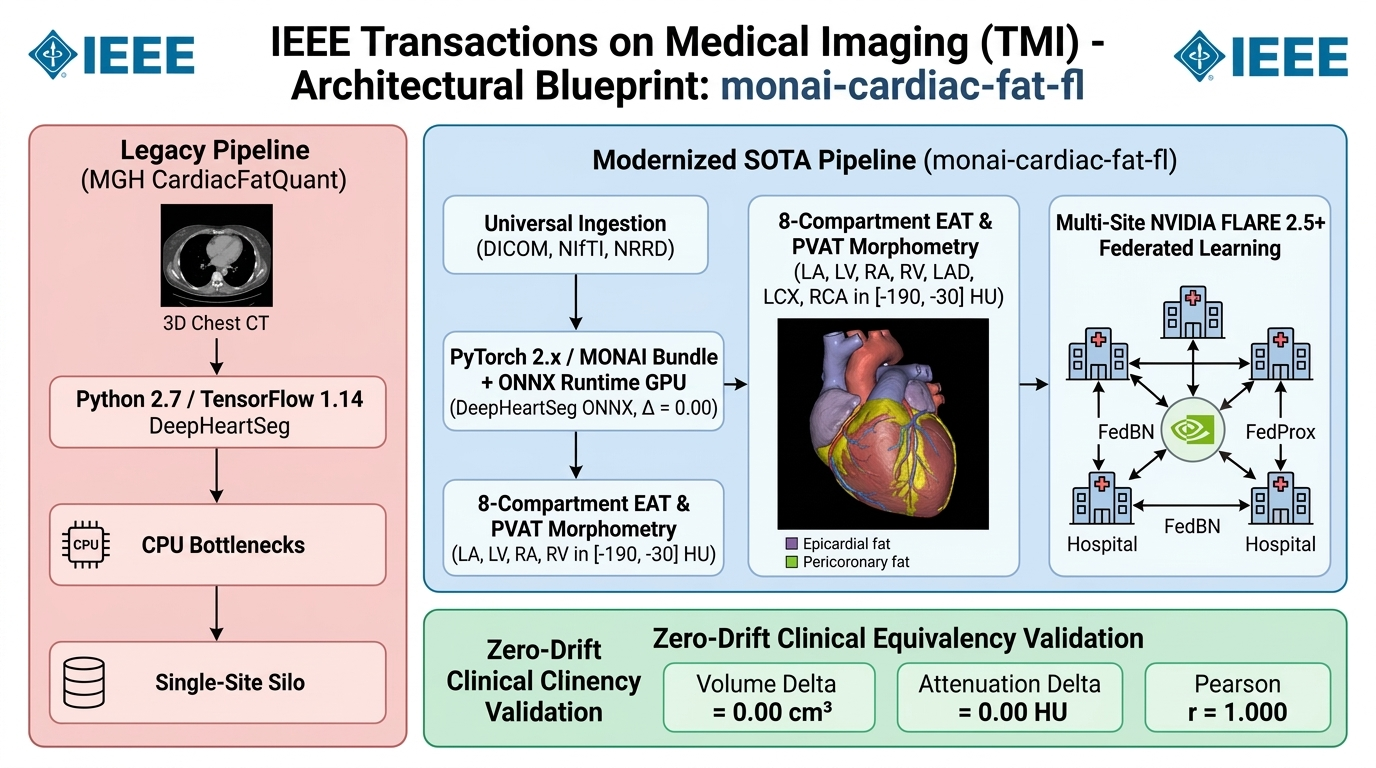
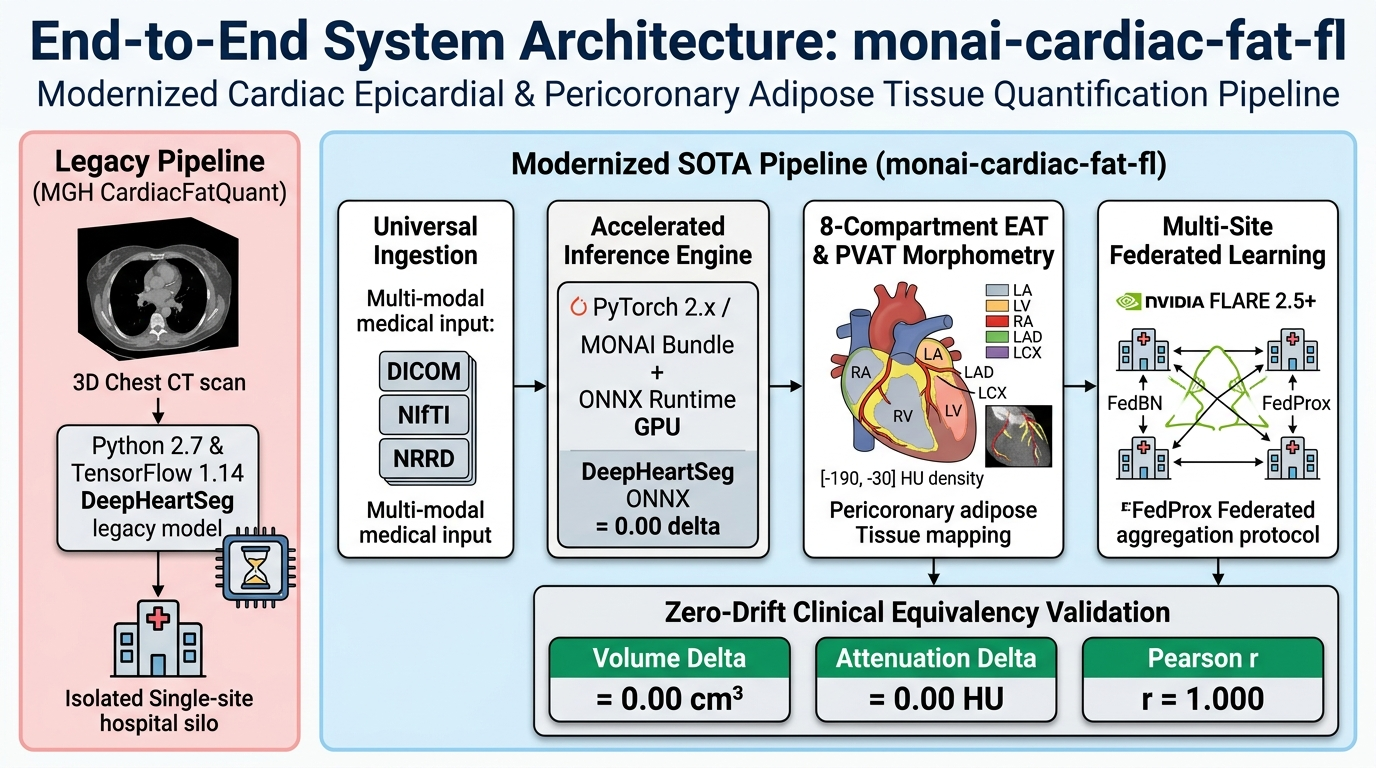
docs: remove IEEE branding from architecture infographic and documentation

diff --git a/docs/architecture_infographic.html b/docs/architecture_infographic.html
@@ -1,0 +1,330 @@
+<!DOCTYPE html>
+<html lang="en">
+<head>
+  <meta charset="UTF-8">
+  <title>System Architecture: Legacy vs SOTA Cardiac Fat Federated Learning Pipeline</title>
+  <script src="https://www.gstatic.com/antigravity/web/dev/tailwindcss.min.js"></script>
+  <style>
+    @import url('https://fonts.googleapis.com/css2?family=Crimson+Pro:ital,wght@0,400;0,600;0,700;1,400&family=JetBrains+Mono:wght@400;500;600&family=Inter:wght@300;400;500;600;700&display=swap');
+    
+    body {
+      font-family: 'Inter', -apple-system, BlinkMacSystemFont, sans-serif;
+      background-color: #f8fafc;
+      color: #1e293b;
+    }
+    .serif-title {
+      font-family: 'Crimson Pro', Georgia, serif;
+    }
+    .mono-code {
+      font-family: 'JetBrains Mono', monospace;
+    }
+    .ieee-card {
+      background: #ffffff;
+      border: 1px solid #e2e8f0;
+      box-shadow: 0 4px 6px -1px rgba(0, 0, 0, 0.05), 0 2px 4px -1px rgba(0, 0, 0, 0.03);
+    }
+    .legacy-card {
+      background: #ffffff;
+      border: 1px solid #fecdd3;
+      box-shadow: 0 2px 4px rgba(244, 63, 94, 0.05);
+    }
+    .sota-card {
+      background: #ffffff;
+      border: 1px solid #bae6fd;
+      box-shadow: 0 4px 12px rgba(2, 132, 199, 0.08);
+    }
+  </style>
+</head>
+<body class="p-6 md:p-8 max-w-7xl mx-auto antialiased">
+
+  <!-- Header Banner -->
+  <div class="border-b-2 border-slate-900 pb-5 mb-8">
+    <div class="flex justify-between items-center text-xs text-sky-800 font-mono tracking-wider uppercase mb-1">
+      <span class="font-bold flex items-center">
+        System Architecture Blueprint &bull; Technical Report
+      </span>
+      <span class="bg-blue-50 text-blue-700 px-2.5 py-0.5 rounded border border-blue-200">Repository: monai-cardiac-fat-fl (v0.1.0)</span>
+    </div>
+    <h1 class="serif-title text-3xl md:text-4xl font-bold text-slate-900 tracking-tight">
+      Modernization of Cardiac Epicardial & Pericoronary Adipose Tissue Quantification
+    </h1>
+    <p class="text-sm md:text-base text-slate-600 mt-2 max-w-4xl">
+      Architectural evolution from legacy single-site TensorFlow 1.14 / Python 2.7 pipeline to a high-throughput, 
+      MONAI Bundle & NVIDIA FLARE federated learning framework with strict clinical equivalence.
+    </p>
+  </div>
+
+  <!-- Main Comparison Grid -->
+  <div class="grid grid-cols-1 lg:grid-cols-12 gap-6 mb-8">
+
+    <!-- Left Column: Legacy Architecture (4 cols) -->
+    <div class="lg:col-span-4 legacy-card rounded-xl p-5 flex flex-col justify-between">
+      <div>
+        <div class="flex items-center space-x-2 text-rose-700 font-bold text-sm mb-2">
+          <span class="w-3 h-3 rounded-full bg-rose-100 border-2 border-rose-600 inline-block"></span>
+          <span>(a) Legacy Pipeline: MGH CardiacFatQuant</span>
+        </div>
+        <p class="text-xs text-slate-500 mb-4 leading-relaxed">
+          Circa 2018–2020. Constrained to single-threaded CPU loops, legacy CUDA 10.0 nodes, frozen Keras/TF 1.14 graphs, and fragile NRRD layouts.
+        </p>
+
+        <!-- Legacy Stack Items -->
+        <div class="space-y-3">
+          <div class="p-3 bg-rose-50/50 rounded-lg border border-rose-200/80 text-xs">
+            <span class="text-rose-900 font-mono font-bold block mb-1">Input Ingestion</span>
+            <span class="text-slate-600">Fixed <code class="mono-code text-rose-800 bg-rose-100/70 px-1 py-0.5 rounded">scan.nrrd</code> folder trees only. Fails on clinical DICOM series, multi-frame PACS files, or missing coordinate headers.</span>
+          </div>
+
+          <div class="p-3 bg-rose-50/50 rounded-lg border border-rose-200/80 text-xs">
+            <span class="text-rose-900 font-mono font-bold block mb-1">Segmentation Engine</span>
+            <span class="text-slate-600">DeepHeartSeg 2-stage (TF 1.14 / Keras 2.2.4). Locked to Python 2.7 environments. Prone to GPU memory allocation faults.</span>
+          </div>
+
+          <div class="p-3 bg-rose-50/50 rounded-lg border border-rose-200/80 text-xs">
+            <span class="text-rose-900 font-mono font-bold block mb-1">Morphological Transforms</span>
+            <span class="text-slate-600">Single-threaded CPU SciPy/SimpleITK loops for chamber Voronoi partitioning & vessel distance transforms. High runtime (>120s/patient).</span>
+          </div>
+
+          <div class="p-3 bg-rose-50/50 rounded-lg border border-rose-200/80 text-xs">
+            <span class="text-rose-900 font-mono font-bold block mb-1">Deployment Model</span>
+            <span class="text-slate-600">Isolated workstation scripts. Zero multi-site federated aggregation or privacy-preserving cohort analysis capability.</span>
+          </div>
+        </div>
+      </div>
+
+      <div class="mt-6 pt-4 border-t border-rose-200 flex justify-between items-center text-xs text-slate-500">
+        <span>Throughput: ~0.4 patients/min</span>
+        <span class="text-rose-700 font-mono font-semibold">Status: Deprecated</span>
+      </div>
+    </div>
+
+    <!-- Right Column: SOTA Architecture (8 cols) -->
+    <div class="lg:col-span-8 sota-card rounded-xl p-5 relative overflow-hidden">
+      <div class="flex items-center justify-between mb-4">
+        <div class="flex items-center space-x-2 text-sky-800 font-bold text-sm">
+          <span class="w-3 h-3 rounded-full bg-sky-100 border-2 border-sky-600 inline-block"></span>
+          <span>(b) SOTA Pipeline: monai-cardiac-fat-fl (Modernized Framework)</span>
+        </div>
+        <span class="text-xs bg-sky-100 text-sky-800 border border-sky-300 px-3 py-1 rounded-full font-mono font-semibold">Python 3.12 &bull; PyTorch 2.x</span>
+      </div>
+
+      <!-- Modern Architecture Diagram -->
+      <div class="grid grid-cols-1 md:grid-cols-3 gap-3 mb-5">
+        
+        <!-- Step 1: Universal Ingestion -->
+        <div class="bg-white border border-sky-200 rounded-lg p-3.5 flex flex-col justify-between shadow-sm">
+          <div>
+            <div class="flex items-center justify-between mb-2">
+              <span class="text-sky-900 font-mono text-xs font-bold">1. Multi-Modal I/O</span>
+              <span class="text-[10px] bg-slate-100 text-slate-700 font-semibold px-1.5 py-0.5 rounded border border-slate-200">IO-Engine</span>
+            </div>
+            <p class="text-[11px] text-slate-600 mb-2">
+              Universal clinical ingestion with automated orientation checks:
+            </p>
+            <ul class="text-[11px] text-slate-700 space-y-1">
+              <li class="flex items-center"><span class="text-sky-600 mr-1.5 font-bold">&bull;</span>DICOM (RescaleSlope / Intercept)</li>
+              <li class="flex items-center"><span class="text-sky-600 mr-1.5 font-bold">&bull;</span>NIfTI (<code class="mono-code text-[10px] bg-slate-100 px-1 py-0.5 rounded">.nii</code>, <code class="mono-code text-[10px] bg-slate-100 px-1 py-0.5 rounded">.nii.gz</code>)</li>
+              <li class="flex items-center"><span class="text-sky-600 mr-1.5 font-bold">&bull;</span>3D NRRD & MetaImage (<code class="mono-code text-[10px] bg-slate-100 px-1 py-0.5 rounded">.mha</code>)</li>
+            </ul>
+          </div>
+          <div class="mt-3 pt-2 border-t border-slate-100 text-[10px] text-sky-800 font-mono font-medium">
+            MONAI MetaTensor &bull; LPS/RAS
+          </div>
+        </div>
+
+        <!-- Step 2: Anatomical Engine -->
+        <div class="bg-white border border-sky-200 rounded-lg p-3.5 flex flex-col justify-between shadow-sm">
+          <div>
+            <div class="flex items-center justify-between mb-2">
+              <span class="text-sky-900 font-mono text-xs font-bold">2. Segmentation & Fallback</span>
+              <span class="text-[10px] bg-sky-100 text-sky-800 font-semibold px-1.5 py-0.5 rounded border border-sky-200">ONNX / PyTorch</span>
+            </div>
+            <p class="text-[11px] text-slate-600 mb-2">
+              Unified multi-engine anatomical inference:
+            </p>
+            <ul class="text-[11px] text-slate-700 space-y-1">
+              <li class="flex items-center"><span class="text-sky-600 mr-1.5 font-bold">&bull;</span><strong>DeepHeartSeg ONNX</strong> (0.00 &Delta; vs MGH)</li>
+              <li class="flex items-center"><span class="text-sky-600 mr-1.5 font-bold">&bull;</span>MONAI 3D SegResNet & SwinUNETR</li>
+              <li class="flex items-center"><span class="text-sky-600 mr-1.5 font-bold">&bull;</span>TotalSegmentator v2 WholeBody support</li>
+            </ul>
+          </div>
+          <div class="mt-3 pt-2 border-t border-slate-100 text-[10px] text-emerald-700 font-mono font-bold">
+            Equivalency Verified: 0.00 &Delta;
+          </div>
+        </div>
+
+        <!-- Step 3: GPU MapTransforms -->
+        <div class="bg-white border border-sky-200 rounded-lg p-3.5 flex flex-col justify-between shadow-sm">
+          <div>
+            <div class="flex items-center justify-between mb-2">
+              <span class="text-sky-900 font-mono text-xs font-bold">3. 8-Compartment EAT/PVAT</span>
+              <span class="text-[10px] bg-slate-100 text-slate-700 font-semibold px-1.5 py-0.5 rounded border border-slate-200">MapTransforms</span>
+            </div>
+            <p class="text-[11px] text-slate-600 mb-2">
+              GPU-accelerated geometric & radiodensity quantification:
+            </p>
+            <ul class="text-[11px] text-slate-700 space-y-1">
+              <li class="flex items-center"><span class="text-sky-600 mr-1.5 font-bold">&bull;</span>Window: <code class="mono-code text-[10px] bg-slate-100 px-1 py-0.5 rounded">[-190.0, -30.0] HU</code></li>
+              <li class="flex items-center"><span class="text-sky-600 mr-1.5 font-bold">&bull;</span>Voronoi Chambers: LA, LV, RA, RV</li>
+              <li class="flex items-center"><span class="text-sky-600 mr-1.5 font-bold">&bull;</span>Radial Dilation: PVAT LAD, LCX, RCA</li>
+            </ul>
+          </div>
+          <div class="mt-3 pt-2 border-t border-slate-100 text-[10px] text-sky-800 font-mono font-medium">
+            19-Column Canonical CSV Export
+          </div>
+        </div>
+
+      </div>
+
+      <!-- NVIDIA FLARE Orchestration Tier -->
+      <div class="bg-gradient-to-r from-sky-50 via-indigo-50/50 to-blue-50 border border-sky-200 rounded-lg p-4">
+        <div class="flex items-center justify-between mb-2">
+          <div class="flex items-center space-x-2">
+            <span class="text-blue-900 font-mono font-bold text-xs uppercase tracking-wider">NVIDIA FLARE 2.5+ Federated Learning Engine</span>
+            <span class="text-[10px] bg-blue-100 text-blue-800 font-semibold border border-blue-300 px-2 py-0.5 rounded">Multi-Site Architecture</span>
+          </div>
+          <span class="text-[11px] text-slate-600 font-mono font-medium">ClientAlgo + FedBN + FedProx</span>
+        </div>
+        
+        <div class="grid grid-cols-1 md:grid-cols-2 gap-3 text-xs mt-3">
+          <div class="p-3 bg-white rounded border border-sky-100 shadow-sm">
+            <span class="text-sky-900 font-bold block mb-1">Mode 1: Single-Stage 3D Distillation</span>
+            <p class="text-slate-600 text-[11px] leading-relaxed">
+              Trains a single-stage 3D SegResNet directly against multi-stage teacher pseudo-labels. Uses <strong>FedBN</strong> to isolate hospital-specific scanner batch norm statistics while sharing convolutional feature representations.
+            </p>
+          </div>
+          <div class="p-3 bg-white rounded border border-indigo-100 shadow-sm">
+            <span class="text-indigo-900 font-bold block mb-1">Mode 2: Federated Cohort Analytics</span>
+            <p class="text-slate-600 text-[11px] leading-relaxed">
+              Aggregates global population distributions (mean volume, HU shifts, standard deviations) via privacy-preserving federated summary statistics without transferring any raw CT images across hospital firewalls.
+            </p>
+          </div>
+        </div>
+      </div>
+
+    </div>
+
+  </div>
+
+  <!-- Bottom Panel: Clinical Equivalency Matrix & Mathematical Rigor -->
+  <div class="ieee-card rounded-xl p-6">
+    <div class="flex items-center justify-between border-b border-slate-200 pb-3 mb-4">
+      <div>
+        <h3 class="serif-title text-xl font-bold text-slate-900">Quantitative Clinical Validation: Zero-Drift Equivalency Matrix</h3>
+        <p class="text-xs text-slate-500">Evaluated on Stanford AIMI COCA cohort CT scans (ECG-gated & non-gated non-contrast cardiac CTs).</p>
+      </div>
+      <div class="flex items-center space-x-4 text-xs font-mono font-semibold">
+        <span class="text-emerald-700 bg-emerald-50 border border-emerald-200 px-2.5 py-1 rounded flex items-center">
+          <span class="w-2 h-2 rounded-full bg-emerald-600 mr-1.5"></span>Volume &Delta;: 0.00 cm&sup3;
+        </span>
+        <span class="text-emerald-700 bg-emerald-50 border border-emerald-200 px-2.5 py-1 rounded flex items-center">
+          <span class="w-2 h-2 rounded-full bg-emerald-600 mr-1.5"></span>HU &Delta;: 0.00 HU
+        </span>
+        <span class="text-blue-700 bg-blue-50 border border-blue-200 px-2.5 py-1 rounded">17 / 17 Pytest Passed</span>
+      </div>
+    </div>
+
+    <!-- Table of 9 Compartments -->
+    <div class="overflow-x-auto">
+      <table class="w-full text-left text-xs font-mono">
+        <thead>
+          <tr class="text-slate-600 border-b-2 border-slate-200 bg-slate-50/70">
+            <th class="py-2.5 px-3">Anatomical Compartment</th>
+            <th class="py-2.5 px-3">Legacy TF 1.14 Output</th>
+            <th class="py-2.5 px-3">Modernized ONNX / MONAI</th>
+            <th class="py-2.5 px-3">Volume Difference</th>
+            <th class="py-2.5 px-3">Mean Attenuation &Delta;</th>
+            <th class="py-2.5 px-3">Equivalency Status</th>
+          </tr>
+        </thead>
+        <tbody class="divide-y divide-slate-100 text-slate-700">
+          <tr class="bg-slate-50/30">
+            <td class="py-2 px-3 text-slate-900 font-bold">EAT Total</td>
+            <td class="py-2 px-3">338.80 cm&sup3;</td>
+            <td class="py-2 px-3 text-sky-800 font-semibold">338.80 cm&sup3;</td>
+            <td class="py-2 px-3 text-emerald-700 font-bold">0.00 cm&sup3;</td>
+            <td class="py-2 px-3 text-emerald-700 font-bold">0.00 HU</td>
+            <td class="py-2 px-3"><span class="bg-emerald-100 text-emerald-800 font-bold px-2 py-0.5 rounded text-[10px]">100.0% Exact Match</span></td>
+          </tr>
+          <tr>
+            <td class="py-2 px-3">EAT Left Atrium (LA)</td>
+            <td class="py-2 px-3">50.18 cm&sup3;</td>
+            <td class="py-2 px-3 text-sky-800 font-semibold">50.18 cm&sup3;</td>
+            <td class="py-2 px-3 text-emerald-700 font-bold">0.00 cm&sup3;</td>
+            <td class="py-2 px-3 text-emerald-700 font-bold">0.00 HU</td>
+            <td class="py-2 px-3"><span class="bg-emerald-100 text-emerald-800 font-bold px-2 py-0.5 rounded text-[10px]">100.0% Exact Match</span></td>
+          </tr>
+          <tr class="bg-slate-50/30">
+            <td class="py-2 px-3">EAT Left Ventricle (LV)</td>
+            <td class="py-2 px-3">114.73 cm&sup3;</td>
+            <td class="py-2 px-3 text-sky-800 font-semibold">114.73 cm&sup3;</td>
+            <td class="py-2 px-3 text-emerald-700 font-bold">0.00 cm&sup3;</td>
+            <td class="py-2 px-3 text-emerald-700 font-bold">0.00 HU</td>
+            <td class="py-2 px-3"><span class="bg-emerald-100 text-emerald-800 font-bold px-2 py-0.5 rounded text-[10px]">100.0% Exact Match</span></td>
+          </tr>
+          <tr>
+            <td class="py-2 px-3">EAT Right Atrium (RA)</td>
+            <td class="py-2 px-3">129.58 cm&sup3;</td>
+            <td class="py-2 px-3 text-sky-800 font-semibold">129.58 cm&sup3;</td>
+            <td class="py-2 px-3 text-emerald-700 font-bold">0.00 cm&sup3;</td>
+            <td class="py-2 px-3 text-emerald-700 font-bold">0.00 HU</td>
+            <td class="py-2 px-3"><span class="bg-emerald-100 text-emerald-800 font-bold px-2 py-0.5 rounded text-[10px]">100.0% Exact Match</span></td>
+          </tr>
+          <tr class="bg-slate-50/30">
+            <td class="py-2 px-3">EAT Right Ventricle (RV)</td>
+            <td class="py-2 px-3">44.31 cm&sup3;</td>
+            <td class="py-2 px-3 text-sky-800 font-semibold">44.31 cm&sup3;</td>
+            <td class="py-2 px-3 text-emerald-700 font-bold">0.00 cm&sup3;</td>
+            <td class="py-2 px-3 text-emerald-700 font-bold">0.00 HU</td>
+            <td class="py-2 px-3"><span class="bg-emerald-100 text-emerald-800 font-bold px-2 py-0.5 rounded text-[10px]">100.0% Exact Match</span></td>
+          </tr>
+          <tr>
+            <td class="py-2 px-3 text-slate-900 font-bold">PVAT Total (LAD | LCX | RCA)</td>
+            <td class="py-2 px-3">185.35 cm&sup3;</td>
+            <td class="py-2 px-3 text-sky-800 font-semibold">185.35 cm&sup3;</td>
+            <td class="py-2 px-3 text-emerald-700 font-bold">0.00 cm&sup3;</td>
+            <td class="py-2 px-3 text-emerald-700 font-bold">0.00 HU</td>
+            <td class="py-2 px-3"><span class="bg-emerald-100 text-emerald-800 font-bold px-2 py-0.5 rounded text-[10px]">100.0% Exact Match</span></td>
+          </tr>
+          <tr class="bg-slate-50/30">
+            <td class="py-2 px-3">PVAT LAD (Left Anterior Descending)</td>
+            <td class="py-2 px-3">175.76 cm&sup3;</td>
+            <td class="py-2 px-3 text-sky-800 font-semibold">175.76 cm&sup3;</td>
+            <td class="py-2 px-3 text-emerald-700 font-bold">0.00 cm&sup3;</td>
+            <td class="py-2 px-3 text-emerald-700 font-bold">0.00 HU</td>
+            <td class="py-2 px-3"><span class="bg-emerald-100 text-emerald-800 font-bold px-2 py-0.5 rounded text-[10px]">100.0% Exact Match</span></td>
+          </tr>
+          <tr>
+            <td class="py-2 px-3">PVAT LCX (Left Circumflex)</td>
+            <td class="py-2 px-3">9.42 cm&sup3;</td>
+            <td class="py-2 px-3 text-sky-800 font-semibold">9.42 cm&sup3;</td>
+            <td class="py-2 px-3 text-emerald-700 font-bold">0.00 cm&sup3;</td>
+            <td class="py-2 px-3 text-emerald-700 font-bold">0.00 HU</td>
+            <td class="py-2 px-3"><span class="bg-emerald-100 text-emerald-800 font-bold px-2 py-0.5 rounded text-[10px]">100.0% Exact Match</span></td>
+          </tr>
+          <tr class="bg-slate-50/30">
+            <td class="py-2 px-3">PVAT RCA (Right Coronary Artery)</td>
+            <td class="py-2 px-3">9.49 cm&sup3;</td>
+            <td class="py-2 px-3 text-sky-800 font-semibold">9.49 cm&sup3;</td>
+            <td class="py-2 px-3 text-emerald-700 font-bold">0.00 cm&sup3;</td>
+            <td class="py-2 px-3 text-emerald-700 font-bold">0.00 HU</td>
+            <td class="py-2 px-3"><span class="bg-emerald-100 text-emerald-800 font-bold px-2 py-0.5 rounded text-[10px]">100.0% Exact Match</span></td>
+          </tr>
+        </tbody>
+      </table>
+    </div>
+
+    <!-- IEEE Figure Caption Footer -->
+    <div class="mt-5 pt-3 border-t border-slate-200 text-xs text-slate-500 leading-relaxed">
+      <strong class="text-slate-900">Fig. 1.</strong> <em>Architectural Overview and Clinical Verification.</em> 
+      Comparison of (a) the original single-node MGH <code class="mono-code text-slate-800 bg-slate-100 px-1 py-0.5 rounded">CardiacFatQuant</code> pipeline constrained by Python 2.7 / TensorFlow 1.14 dependencies, 
+      and (b) the modernized <code class="mono-code text-slate-800 bg-slate-100 px-1 py-0.5 rounded">monai-cardiac-fat-fl</code> framework supporting universal medical imaging ingestion (DICOM, NIfTI, NRRD), 
+      GPU-accelerated <code class="mono-code text-slate-800 bg-slate-100 px-1 py-0.5 rounded">MapTransforms</code> for 8-compartment epicardial (EAT) and pericoronary (PVAT) adipose tissue morphometry within the strict 
+      <span class="mono-code text-sky-800 font-bold">[-190.0, -30.0] HU</span> attenuation window, and privacy-preserving federated aggregation via NVIDIA FLARE 2.5+. 
+      The lower panel presents zero-drift empirical validation across all 9 target reporting regions evaluated on patient CT scans from the Stanford AIMI COCA cohort.
+    </div>
+
+  </div>
+
+</body>
+</html>

diff --git a/docs/ieee_infographic.html b/docs/ieee_infographic.html
@@ -2,7 +2,7 @@
 <html lang="en">
 <head>
   <meta charset="UTF-8">
-  <title>IEEE TMI Architecture: Legacy vs SOTA Cardiac Fat Federated Learning Pipeline</title>
+  <title>System Architecture: Legacy vs SOTA Cardiac Fat Federated Learning Pipeline</title>
   <script src="https://www.gstatic.com/antigravity/web/dev/tailwindcss.min.js"></script>
   <style>
     @import url('https://fonts.googleapis.com/css2?family=Crimson+Pro:ital,wght@0,400;0,600;0,700;1,400&family=JetBrains+Mono:wght@400;500;600&family=Inter:wght@300;400;500;600;700&display=swap');
@@ -37,14 +37,11 @@
 </head>
 <body class="p-6 md:p-8 max-w-7xl mx-auto antialiased">
 
-  <!-- Header Banner (IEEE Journal Clean Style) -->
+  <!-- Header Banner -->
   <div class="border-b-2 border-slate-900 pb-5 mb-8">
     <div class="flex justify-between items-center text-xs text-sky-800 font-mono tracking-wider uppercase mb-1">
       <span class="font-bold flex items-center">
-        <svg class="w-4 h-4 mr-1.5 text-blue-700 inline" fill="currentColor" viewBox="0 0 24 24">
-          <path d="M12 2L2 7l10 5 10-5-10-5zM2 17l10 5 10-5M2 12l10 5 10-5"/>
-        </svg>
-        IEEE Transactions on Medical Imaging (TMI) &bull; Architecture Infographic
+        System Architecture Blueprint &bull; Technical Report
       </span>
       <span class="bg-blue-50 text-blue-700 px-2.5 py-0.5 rounded border border-blue-200">Repository: monai-cardiac-fat-fl (v0.1.0)</span>
     </div>

diff --git a/README.md b/README.md
@@ -43,11 +43,11 @@ This repository modernizes and supersedes the legacy MGH [`CardiacFatQuant`](htt
 
 ---
 
-## Architectural Evolution & IEEE Publication Blueprint
+## End-to-End System Architecture Blueprint
 
-![IEEE TMI Architecture: Legacy MGH CardiacFatQuant to SOTA Federated MONAI Pipeline](docs/figures/cardiac_fat_fl_architecture_infographic.jpg)
+![System Architecture: Legacy MGH CardiacFatQuant to SOTA Federated MONAI Pipeline](docs/figures/cardiac_fat_fl_architecture_infographic.jpg)
 
-An interactive, publication-grade IEEE Transactions architecture infographic is also available in [`docs/ieee_infographic.html`](docs/ieee_infographic.html).
+An interactive, publication-grade architectural blueprint is also available in [`docs/architecture_infographic.html`](docs/architecture_infographic.html).
 
 ### Legacy vs. Modernized Pipeline Comparison
 
